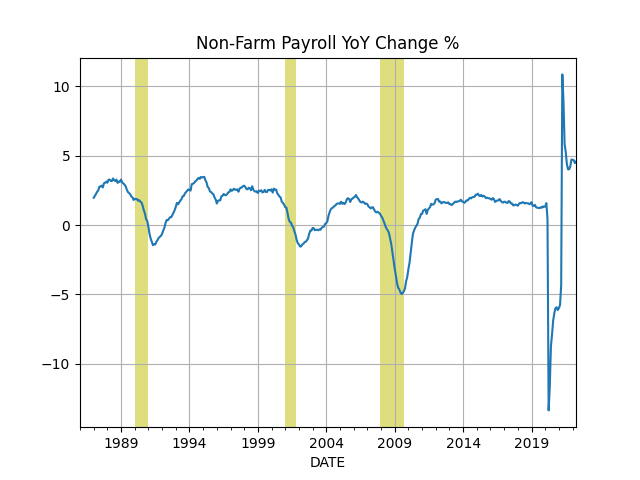
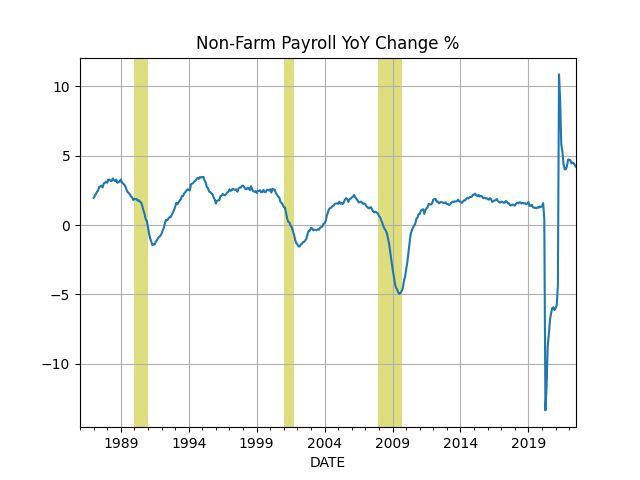
--

diff --git a/en/2019/05/stats.md b/en/2019/05/stats.md
@@ -10,13 +10,7 @@ quarter growth compared to previous quarter,
 
 
 ```python
-import pandas as pd, datetime
-from pandas_datareader import data
-
-today = datetime.datetime.now()
-start=datetime.datetime(1945, 1, 1)
-end=datetime.datetime(today.year, today.month, today.day)
-df = data.DataReader(['GDPC1'], 'fred', start, end)
+import util; df = util.get_fred(1945,'GDPC1')
 df['growann'] = (  (  (1+df.pct_change())**4  )-1.0  )*100.0
 print (df['growann'].tail(5))
 ```
@@ -38,16 +32,10 @@ Name: growann, dtype: float64
 ![](cycle.png)
 
 ```python
-import pandas as pd, datetime
-from pandas_datareader import data
-
-today = datetime.datetime.now()
-start=datetime.datetime(1970, 1, 1)
-end=datetime.datetime(today.year, today.month, today.day)
+import util; df = util.get_fred(1970,'GDPC1')
 
 fig, axs = plt.subplots(2)
 
-df = data.DataReader(['GDPC1'], 'fred', start, end)
 df['gdpyoy'] = (df.GDPC1 - df.GDPC1.shift(4)) / df.GDPC1.shift(4) * 100.0
 df['gdpyoy'].plot(ax=axs[0],title="GDP and Inflation (CPI YoY)")
 axs[0].axvspan('01-11-1973', '01-03-1975', color='y', alpha=0.5, lw=0)
@@ -57,7 +45,7 @@ axs[0].axvspan('01-03-2001', '27-10-2001', color='y', alpha=0.5, lw=0)
 axs[0].axvspan('22-12-2007', '09-05-2009', color='y', alpha=0.5, lw=0)
 print (df[['gdpyoy']].tail(6))
 
-df = data.DataReader(['CPIAUCNS'], 'fred', start, end)
+df = util.get_fred(1970,'CPIAUCNS')
 df['inf'] = (df.CPIAUCNS - df.CPIAUCNS.shift(12)) / df.CPIAUCNS.shift(12) * 100.0
 df['inf'].plot(ax=axs[1])
 axs[1].axvspan('01-11-1973', '01-03-1975', color='y', alpha=0.5, lw=0)
@@ -94,13 +82,7 @@ DATE
 The Taylor Rule
 
 ```python
-import pandas as pd, datetime
-from pandas_datareader import data
-
-today = datetime.datetime.now()
-start=datetime.datetime(1970, 1, 1)
-end=datetime.datetime(today.year, today.month, today.day)
-df = data.DataReader(['GDPC1','GDPPOT','PCEPI','FEDFUNDS'], 'fred', start, end)
+import util; df = util.get_fred(1970,['GDPC1','GDPPOT','PCEPI','FEDFUNDS'])
 
 df = df.interpolate().resample('AS').mean()
 longrun = 2.0
@@ -117,7 +99,7 @@ DATE
 2019-01-01    3.017600
 2020-01-01    0.024595
 2021-01-01    5.984414
-2022-01-01    7.327278
+2022-01-01    7.657455
 Freq: AS-JAN, Name: Taylor, dtype: float64
 ```
 
@@ -130,14 +112,7 @@ Freq: AS-JAN, Name: Taylor, dtype: float64
 Non-Farm Payroll
 
 ```python
-import pandas as pd, datetime
-from pandas_datareader import data
-
-today = datetime.datetime.now()
-start=datetime.datetime(1986, 1, 1)
-end=datetime.datetime(today.year, today.month, today.day)
-cols = ['PAYEMS']
-df = data.DataReader(cols, 'fred', start, end)
+import util; df = util.get_fred(1986,['PAYEMS'])
 df['nfpyoy'] = (df.PAYEMS - df.PAYEMS.shift(12)) / df.PAYEMS.shift(12) * 100.0
 print (df.tail(7))
 df.nfpyoy.plot()
@@ -152,13 +127,13 @@ plt.savefig('nfp.png')
 ```text
             PAYEMS    nfpyoy
 DATE                        
-2021-10-01  148005  4.024487
-2021-11-01  148652  4.235268
-2021-12-01  149240  4.732029
 2022-01-01  149744  4.703637
 2022-02-01  150458  4.683184
-2022-03-01  150886  4.469262
-2022-04-01  151314  4.575172
+2022-03-01  150856  4.448491
+2022-04-01  151224  4.512972
+2022-05-01  151610  4.457045
+2022-06-01  152008  4.330876
+2022-07-01  152536  4.200510
 ```
 
 ![](nfp.png)
@@ -168,14 +143,7 @@ DATE
 Job Quits, Resignations
 
 ```python
-import pandas as pd, datetime
-from pandas_datareader import data
-
-today = datetime.datetime.now()
-start=datetime.datetime(1986, 1, 1)
-end=datetime.datetime(today.year, today.month, today.day)
-cols = ['JTSQUR']
-df = data.DataReader(cols, 'fred', start, end)
+import util; df = util.get_fred(1986,['JTSQUR'])
 print (df.JTSQUR.tail(5))
 df.JTSQUR.plot()
 plt.axvspan('01-09-1990', '01-07-1991', color='y', alpha=0.5, lw=0)
@@ -187,11 +155,11 @@ plt.savefig('quits.png')
 
 ```text
 DATE
-2022-01-01    2.8
 2022-02-01    2.9
 2022-03-01    2.9
 2022-04-01    2.9
 2022-05-01    2.8
+2022-06-01    2.8
 Name: JTSQUR, dtype: float64
 ```
 
